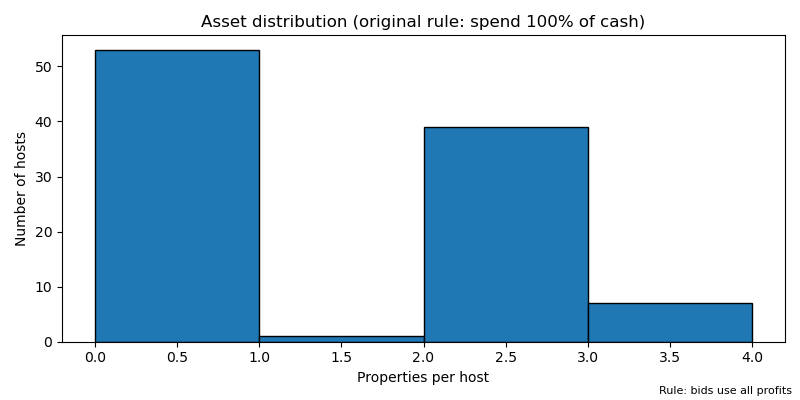
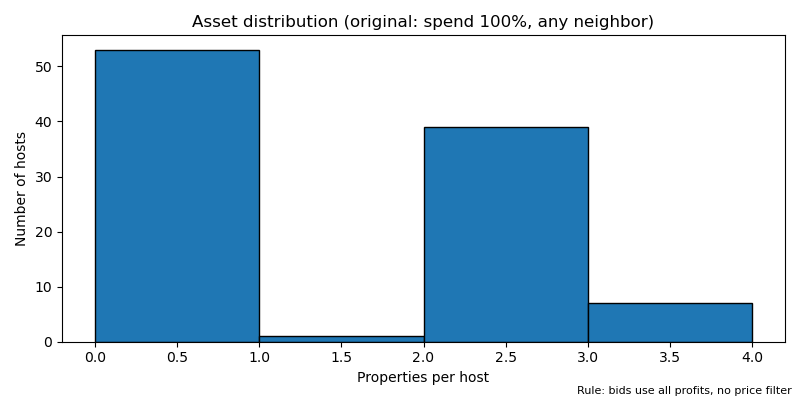
feat: change rule to buy only below area average and update docs/graphs

Changed region(s): [[0.2188, 0.03, 0.8125, 0.09], [0.7188, 0.96, 1.0, 0.99]]

diff --git a/main.py b/main.py
@@ -23,12 +23,17 @@ area_rates = {
 }
 
 
-def run_simulation(n_steps=180, bid_spend_fraction=1.0, seed=123):
+def run_simulation(n_steps=180, bid_spend_fraction=1.0, cheap_only=False, seed=123):
     """Ejecuta la simulación durante n_steps meses."""
     random.seed(seed)
     np.random.seed(seed)
 
-    city = City(size=10, area_rates=area_rates, bid_spend_fraction=bid_spend_fraction)
+    city = City(
+        size=10,
+        area_rates=area_rates,
+        bid_spend_fraction=bid_spend_fraction,
+        cheap_only=cheap_only,
+    )
     city.initialize()
     for _ in range(n_steps):
         city.iterate()
@@ -53,8 +58,8 @@ def compute_wealth(city):
 
 
 if __name__ == "__main__":
-    # versión original (usa todos los profits para pujar)
-    city = run_simulation(bid_spend_fraction=1.0, seed=123)
+    # versión original: puja con 100% del cash, sin filtro de “propiedad barata”
+    city = run_simulation(bid_spend_fraction=1.0, cheap_only=False, seed=123)
     wealth = compute_wealth(city)
 
     # ordenar de menor a mayor riqueza
@@ -81,22 +86,36 @@ if __name__ == "__main__":
     plt.hist(asset_counts_v0, bins=range(0, max_assets + 2), edgecolor="black")
     plt.xlabel("Properties per host")
     plt.ylabel("Number of hosts")
-    plt.title("Asset distribution (original rule: spend 100% of cash)")
-    plt.figtext(0.99, 0.01, "Rule: bids use all profits", ha="right", va="bottom", fontsize=8)
+    plt.title("Asset distribution (original: spend 100%, any neighbor)")
+    plt.figtext(
+        0.99,
+        0.01,
+        "Rule: bids use all profits, no price filter",
+        ha="right",
+        va="bottom",
+        fontsize=8,
+    )
     plt.tight_layout()
     plt.savefig("reports/graph2_v0.png")
     plt.close()
 
-    # Versión modificada: cada host solo gasta la mitad de sus profits en una puja
-    city_v1 = run_simulation(bid_spend_fraction=0.5, seed=123)
+    # Versión modificada: solo compra si el rate del vecino <= media del área
+    city_v1 = run_simulation(bid_spend_fraction=1.0, cheap_only=True, seed=123)
     asset_counts_v1 = [len(h.assets) for h in city_v1.hosts]
     max_assets_v1 = max(asset_counts_v1)
     plt.figure(figsize=(8, 4))
     plt.hist(asset_counts_v1, bins=range(0, max_assets_v1 + 2), edgecolor="black")
     plt.xlabel("Properties per host")
     plt.ylabel("Number of hosts")
-    plt.title("Asset distribution (modified rule: spend 50% of cash)")
-    plt.figtext(0.99, 0.01, "Rule: bids use 50% of profits", ha="right", va="bottom", fontsize=8)
+    plt.title("Asset distribution (modified: buy only below area-average rate)")
+    plt.figtext(
+        0.99,
+        0.01,
+        "Rule: only bid if place rate <= area average",
+        ha="right",
+        va="bottom",
+        fontsize=8,
+    )
     plt.tight_layout()
     plt.savefig("reports/graph2_v1.png")
     plt.close()

diff --git a/src/final_project/hosts.py b/src/final_project/hosts.py
@@ -3,13 +3,22 @@ class Host:
     Representa un propietario de uno o más anuncios.
     """
 
-    def __init__(self, host_id, place, city, profits=0, bid_spend_fraction=1.0):
+    def __init__(
+        self,
+        host_id,
+        place,
+        city,
+        profits=0,
+        bid_spend_fraction=1.0,
+        cheap_only=False,
+    ):
         self.host_id = host_id
         self.city = city
         self.profits = profits
         self.area = place.area           # área de origen
         self.assets = set([place.place_id])  # IDs de propiedades que posee
         self.bid_spend_fraction = bid_spend_fraction
+        self.cheap_only = cheap_only
 
     def update_profits(self):
         """
@@ -47,6 +56,13 @@ class Host:
             # precio de venta actual = último valor del historial
             last_step = max(place.price.keys())
             ask_price = place.price[last_step]
+
+            # regla opcional: solo comprar si el rate del sitio está por debajo
+            # de la media del área (compras prudentes/baratas)
+            if self.cheap_only:
+                area_mean_rate = self.city.area_mean_rates[place.area]
+                if place.rate > area_mean_rate:
+                    continue
 
             # regla original: usar todos los profits como oferta
             # if self.profits >= ask_price:

diff --git a/src/final_project/city.py b/src/final_project/city.py
@@ -9,11 +9,16 @@ class City:
     Entorno de simulación de la ciudad.
     """
 
-    def __init__(self, size, area_rates, bid_spend_fraction=1.0):
+    def __init__(self, size, area_rates, bid_spend_fraction=1.0, cheap_only=False):
         self.size = size
         self.area_rates = area_rates
         self.bid_spend_fraction = bid_spend_fraction
+        self.cheap_only = cheap_only
         self.step = 0
+        # media de rate por área (constante durante la simulación)
+        self.area_mean_rates = {
+            k: (low + high) / 2 for k, (low, high) in self.area_rates.items()
+        }
 
     def initialize(self):
         """
@@ -34,6 +39,7 @@ class City:
                 place=self.places[x],
                 city=self,
                 bid_spend_fraction=self.bid_spend_fraction,
+                cheap_only=self.cheap_only,
             )
             for x in range(n * n)
         ]

diff --git a/README.md b/README.md
@@ -79,18 +79,20 @@ Datasets (Inside Airbnb downloads)
 - Madrid calendar (June 2025): https://data.insideairbnb.com/spain/community-of-madrid/madrid/2025-06-27/data/calendar.csv.gz
 
 Rule change snippet (Part 1)
-- Original (commented in `src/final_project/hosts.py`): each host bids using 100% of its profits.
-- Modified (active): each host only uses a fraction of its profits (here 50%) → bids are smaller, fewer quick takeovers.
+- Original (commented in `src/final_project/hosts.py`): each host bids using 100% of its profits on any adjacent listing.
+- Modified (active in graph2_v1): host only bids if the target listing’s nightly rate is at or below the area’s average rate (buys “cheap” neighbors).
 ```python
 # original rule
 # if self.profits >= ask_price:
 #     spread = self.profits - ask_price
 #     bids.append({... "bid_price": self.profits})
 
-# modified rule (active)
-budget = self.profits * self.bid_spend_fraction  # e.g., 0.5
+# modified rule (active in v1)
+if place.rate > area_mean_rate:
+    continue  # skip expensive neighbor
+budget = self.profits * self.bid_spend_fraction  # here 1.0
 if budget >= ask_price:
     spread = budget - ask_price
     bids.append({... "bid_price": budget})
 ```
-Effect we expected: limiting cash per bid slows aggressive expansion and should reduce extreme concentration. Graphs `reports/graph2_v0.png` (original) vs `graph2_v1.png` (modified) show the distribution of properties per host under each rule.
+Effect we expected: forcing hosts to buy only “below-average” listings should let more owners acquire something, reducing concentration. Graphs `reports/graph2_v0.png` (original) vs `graph2_v1.png` (modified) show the assets-per-host distribution.
